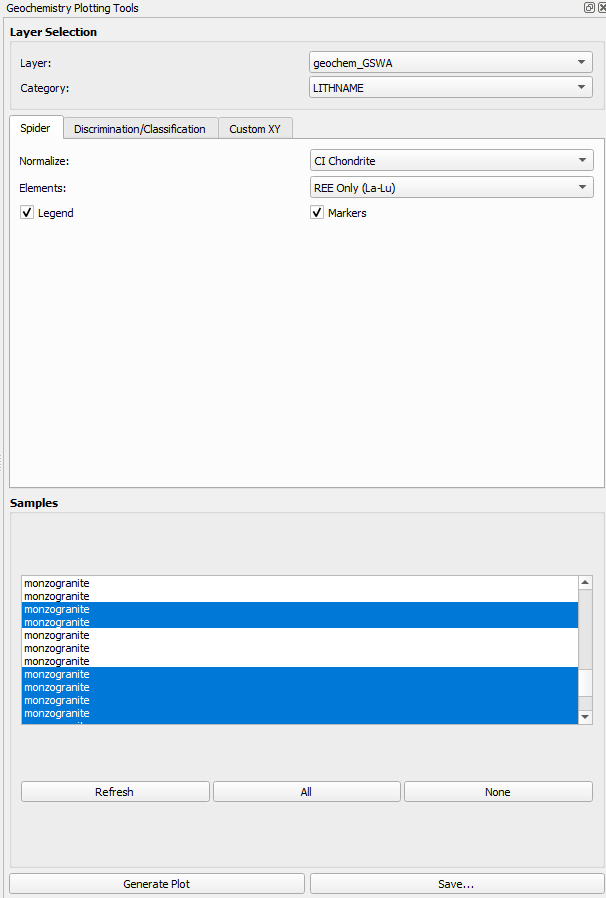
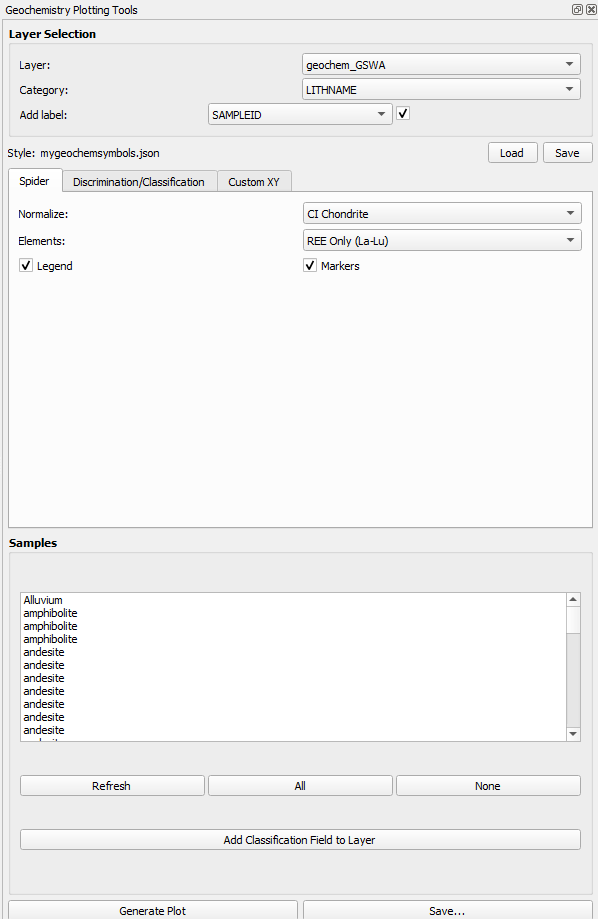
add labels to selected points, allow stored symbol choices

diff --git a/geochem_dock.py b/geochem_dock.py
@@ -5,6 +5,8 @@ Contains the main dockable widget with all plotting functionality.
 """
 
 import os
+import json
+import matplotlib.colors as mcolors
 from qgis.core import QgsProject, QgsVectorLayer, QgsField, NULL
 from qgis.PyQt.QtWidgets import (
     QDockWidget, QWidget, QVBoxLayout, QHBoxLayout, QLabel, QComboBox,
@@ -12,7 +14,7 @@ from qgis.PyQt.QtWidgets import (
     QFileDialog, QMessageBox, QGroupBox, QTabWidget,
     QGridLayout, QRadioButton, QButtonGroup, QScrollArea
 )
-from qgis.PyQt.QtCore import Qt, QVariant, pyqtSignal
+from qgis.PyQt.QtCore import Qt, QVariant, pyqtSignal, QSettings
 
 try:
     import matplotlib
@@ -1489,10 +1491,19 @@ class GeochemistryDockWidget(QDockWidget):
         super().__init__("Geochemistry Plotting Tools", parent)
         self.iface = iface
         self.current_fig = None
+        self.style_map = {}
+        self.style_file_path = None
+        self.last_category_colors = {}
+        self.last_category_markers = {}
         self.setAllowedAreas(LeftDockWidgetArea | RightDockWidgetArea)
         self.setup_ui()
         self.load_layers()
-        
+
+        # Reload last-used style file
+        saved_path = QSettings('geochem_plots', 'geochem_plots').value('style_file', '')
+        if saved_path and os.path.isfile(saved_path):
+            self.load_style_from_file(saved_path)
+
         # Connect to layer registry for updates
         QgsProject.instance().layersAdded.connect(self.load_layers)
         QgsProject.instance().layersRemoved.connect(self.load_layers)
@@ -1529,7 +1540,35 @@ class GeochemistryDockWidget(QDockWidget):
         id_row.addWidget(self.id_field_combo)
         layer_layout.addLayout(id_row)
 
+        label_row = QHBoxLayout()
+        label_row.addWidget(QLabel("Add label:"))
+        self.label_field_combo = QComboBox()
+        label_row.addWidget(self.label_field_combo)
+        self.discrim_label = QCheckBox()
+        self.discrim_label.setChecked(False)
+        self.discrim_label.setToolTip("Label selected points using this field")
+        label_row.addWidget(self.discrim_label)
+        layer_layout.addLayout(label_row)
+
         main_layout.addWidget(layer_group)
+
+        # Style mapping row
+        style_row = QHBoxLayout()
+        style_row.addWidget(QLabel("Style:"))
+        self.style_file_label = QLabel("(none)")
+        self.style_file_label.setStyleSheet("color: gray; font-style: italic;")
+        style_row.addWidget(self.style_file_label, stretch=1)
+        load_style_btn = QPushButton("Load")
+        load_style_btn.setMaximumWidth(50)
+        load_style_btn.setToolTip("Load a colour/marker style JSON file")
+        load_style_btn.clicked.connect(lambda: self.load_style_from_file())
+        save_style_btn = QPushButton("Save")
+        save_style_btn.setMaximumWidth(50)
+        save_style_btn.setToolTip("Save current plot colours/markers to style file")
+        save_style_btn.clicked.connect(lambda: self.save_style_to_file())
+        style_row.addWidget(load_style_btn)
+        style_row.addWidget(save_style_btn)
+        main_layout.addLayout(style_row)
 
         # Tabs
         self.tab_widget = QTabWidget()
@@ -1582,14 +1621,6 @@ class GeochemistryDockWidget(QDockWidget):
         discrim_opts.addWidget(self.discrim_legend)
         discrim_opts.addWidget(self.discrim_category_legend)
         discrim_layout.addLayout(discrim_opts)
-
-        classify_btn = QPushButton("Add Classification Field to Layer")
-        classify_btn.setToolTip(
-            "Adds (or updates) a text field in the layer with the classification\n"
-            "domain for every feature based on the selected diagram."
-        )
-        classify_btn.clicked.connect(self.add_classification_field)
-        discrim_layout.addWidget(classify_btn)
         discrim_layout.addStretch()
 
         self.tab_widget.addTab(discrim_tab, "Discrimination/Classification")
@@ -1697,7 +1728,15 @@ class GeochemistryDockWidget(QDockWidget):
         btn_row.addWidget(select_all_btn)
         btn_row.addWidget(deselect_all_btn)
         sample_layout.addLayout(btn_row)
-        
+
+        classify_btn = QPushButton("Add Classification Field to Layer")
+        classify_btn.setToolTip(
+            "Adds (or updates) a text field in the layer with the classification\n"
+            "domain for every feature based on the selected diagram."
+        )
+        classify_btn.clicked.connect(self.add_classification_field)
+        sample_layout.addWidget(classify_btn)
+
         main_layout.addWidget(sample_group)
 
         # Action buttons
@@ -1753,12 +1792,14 @@ class GeochemistryDockWidget(QDockWidget):
             return
         
         self.id_field_combo.clear()
+        self.label_field_combo.clear()
         field_names = [field.name() for field in layer.fields()]
         for field_name in field_names:
             self.id_field_combo.addItem(field_name)
-        
+            self.label_field_combo.addItem(field_name)
+
         # Auto-select ID field
-        preferred_names = ['sample_id', 'sampleid', 'sample', 'name', 'id', 'sample_name', 
+        preferred_names = ['sample_id', 'sampleid', 'sample', 'name', 'id', 'sample_name',
                         'samplename', 'label', 'station', 'site', 'sample_no', 'samp_id',
                         'hole_id', 'holeid', 'drillhole', 'core_id', 'spec_id', 'specimen']
         best_index = 0
@@ -1971,6 +2012,7 @@ class GeochemistryDockWidget(QDockWidget):
         x_positions = np.arange(len(element_order))
 
         category_colors, sample_colors, unique_categories, category_markers, sample_markers = create_categorical_color_map(sample_names)
+        category_colors, category_markers, sample_colors, sample_markers = self.apply_style_overrides(category_colors, category_markers, sample_names)
 
         plotted_categories = set()
         line_to_fid = {}
@@ -2099,6 +2141,7 @@ class GeochemistryDockWidget(QDockWidget):
             fid_list.append(feature.id())
 
         category_colors, sample_colors, unique_categories, category_markers, sample_markers = create_categorical_color_map(sample_names)
+        category_colors, category_markers, sample_colors, sample_markers = self.apply_style_overrides(category_colors, category_markers, sample_names)
 
         fig, ax = plt.subplots(figsize=(10, 8))
         n_collections_before = len(ax.collections)
@@ -2228,7 +2271,8 @@ class GeochemistryDockWidget(QDockWidget):
             return
         
         category_colors, sample_colors, unique_categories, category_markers, sample_markers = create_categorical_color_map(sample_names)
-        
+        category_colors, category_markers, sample_colors, sample_markers = self.apply_style_overrides(category_colors, category_markers, sample_names)
+
         fig, ax = plt.subplots(figsize=(12, 9))
         
         if self.x_scale_combo.currentIndex() == 1:
@@ -2298,6 +2342,8 @@ class GeochemistryDockWidget(QDockWidget):
             return
 
         pts_array = np.array(pts_data, dtype=float)
+        fid_to_pt = dict(zip(fid_list, pts_data))
+        current_labels = []
 
         def apply_selection(selected_fids):
             layer = QgsProject.instance().mapLayer(layer_id)
@@ -2305,6 +2351,14 @@ class GeochemistryDockWidget(QDockWidget):
                 return
             layer.selectByIds(selected_fids)
             selected_set = set(selected_fids)
+
+            for ann in current_labels:
+                try:
+                    ann.remove()
+                except Exception:
+                    pass
+            current_labels.clear()
+
             for fid, sc in fid_to_scatter.items():
                 if fid in selected_set:
                     sc.set_edgecolors('red')
@@ -2314,6 +2368,27 @@ class GeochemistryDockWidget(QDockWidget):
                     sc.set_edgecolors('black')
                     sc.set_linewidths(0.5)
                     sc.set_zorder(10)
+
+            if self.discrim_label.isChecked() and selected_fids:
+                label_field = self.label_field_combo.currentText()
+                layer_field_names = [f.name() for f in layer.fields()]
+                if label_field in layer_field_names:
+                    for fid in selected_fids:
+                        if fid not in fid_to_pt:
+                            continue
+                        x, y = fid_to_pt[fid]
+                        feature = layer.getFeature(fid)
+                        if not feature.isValid():
+                            continue
+                        val = feature[label_field]
+                        if val is not None and val != NULL:
+                            ann = ax.annotate(
+                                str(val), xy=(x, y),
+                                xytext=(6, 0), textcoords='offset points',
+                                fontsize=8, va='center'
+                            )
+                            current_labels.append(ann)
+
             fig.canvas.draw_idle()
             self.refresh_selection()
 
@@ -2434,6 +2509,72 @@ class GeochemistryDockWidget(QDockWidget):
                 apply_selection([fid])
 
         fig.canvas.mpl_connect('pick_event', on_pick)
+
+    # ------------------------------------------------------------------
+    # Style file management
+    # ------------------------------------------------------------------
+
+    def apply_style_overrides(self, category_colors, category_markers, sample_names):
+        """Override auto-generated colors/markers with any entries in style_map.
+        Returns updated (category_colors, category_markers, sample_colors, sample_markers).
+        """
+        for cat, style in self.style_map.items():
+            if cat not in category_colors:
+                continue
+            if 'color' in style:
+                try:
+                    category_colors[cat] = mcolors.to_rgba(style['color'])
+                except ValueError:
+                    pass
+            if 'marker' in style:
+                category_markers[cat] = style['marker']
+        sample_colors = [category_colors[n] for n in sample_names]
+        sample_markers = [category_markers[n] for n in sample_names]
+        self.last_category_colors = dict(category_colors)
+        self.last_category_markers = dict(category_markers)
+        return category_colors, category_markers, sample_colors, sample_markers
+
+    def load_style_from_file(self, path=None):
+        """Load colour/marker style mappings from a JSON file."""
+        if path is None:
+            path, _ = QFileDialog.getOpenFileName(
+                self, "Load Style File", "", "JSON Files (*.json);;All Files (*)")
+            if not path:
+                return
+        try:
+            with open(path) as f:
+                self.style_map = json.load(f)
+            self.style_file_path = path
+            QSettings('geochem_plots', 'geochem_plots').setValue('style_file', path)
+            self.style_file_label.setText(os.path.basename(path))
+            self.style_file_label.setStyleSheet("")
+        except Exception as e:
+            QMessageBox.warning(self, "Error", f"Could not load style file:\n{e}")
+
+    def save_style_to_file(self):
+        """Merge current plot colours/markers into style_map and save to JSON."""
+        if not self.last_category_colors:
+            QMessageBox.information(self, "No plot yet",
+                "Generate a plot first so there are colours/markers to save.")
+            return
+        # Merge latest plot colors into style_map
+        for cat, color in self.last_category_colors.items():
+            self.style_map[cat] = {
+                'color': mcolors.to_hex(color),
+                'marker': self.last_category_markers.get(cat, 'o'),
+            }
+        # Ask for path if none set yet
+        if self.style_file_path is None:
+            path, _ = QFileDialog.getSaveFileName(
+                self, "Save Style File", "", "JSON Files (*.json);;All Files (*)")
+            if not path:
+                return
+            self.style_file_path = path
+            QSettings('geochem_plots', 'geochem_plots').setValue('style_file', path)
+            self.style_file_label.setText(os.path.basename(path))
+            self.style_file_label.setStyleSheet("")
+        with open(self.style_file_path, 'w') as f:
+            json.dump(self.style_map, f, indent=2, sort_keys=True)
 
     def save_plot(self):
         """Save the current plot."""

diff --git a/README.md b/README.md
@@ -5,7 +5,9 @@ A simple geochemistry plotting tool for QGIS that creates spider diagrams, discr
 
 ### Recent changelog
 changelog=0.0.4 Allow selection of plotted points to update map selections   
-    - Assign field labels to points   
+    - Assign field labels to points 
+    - Add labels to selected points in plots     
+    - Allow symbol choices to be saved to and read from file   
     0.0.3 Add Winchester & Floyd 1977 plot   
     - Allow any numeric field for Custom xy plots   
     - Allow field names with Na_Sodium naming convention   
